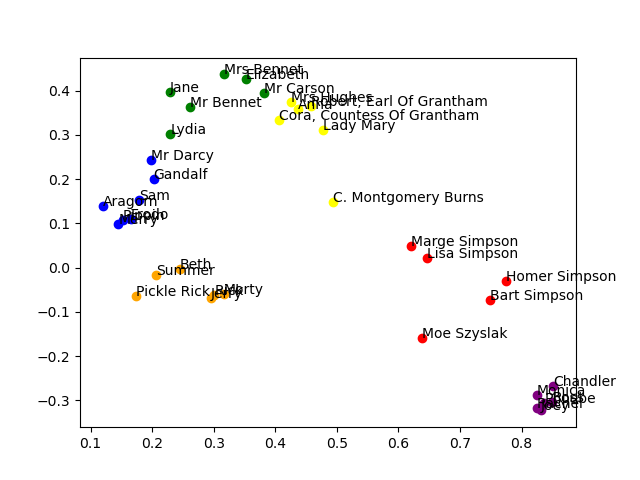
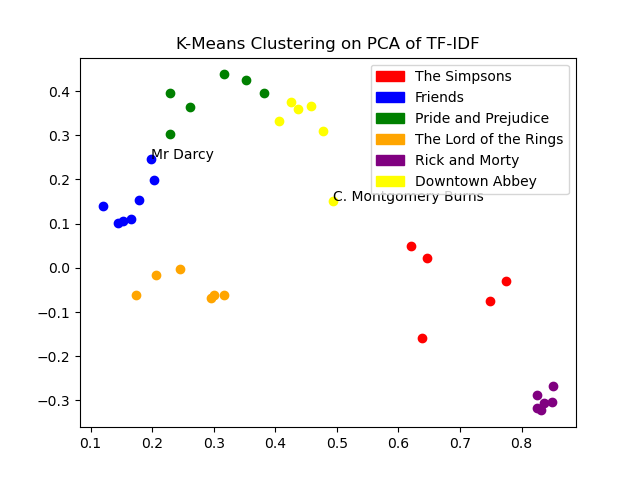
Updated K-Means PCA

diff --git a/code/k_means_across_media.py b/code/k_means_across_media.py
@@ -57,10 +57,20 @@ def plot_data(matrix, speakers, media, response_type):
     elif response_type == 'predicted':
         #create a dictionary of colors for each media
         labels = {0: 'red', 1: 'blue', 2: 'green', 3: 'orange', 4: 'purple', 5: 'yellow'}
+        #create a dictionary of media for each color
+        media_labels = {'red': 'The Simpsons', 'blue': 'Friends', 'green': 'Pride and Prejudice', 'orange': 'The Lord of the Rings', 'purple': 'Rick and Morty', 'yellow': 'Downtown Abbey'}
 
     for i, txt in enumerate(speakers):
         plt.scatter(matrix[i, 0], matrix[i, 1], color=labels[media[i]])
-        plt.annotate(txt, (matrix[:, 0][i], matrix[:, 1][i]))
+        if txt in ('C. Montgomery Burns', 'Mr Darcy'):
+            plt.annotate(txt, (matrix[:, 0][i], matrix[:, 1][i]))
+
+    patches = [mpatches.Patch(color=color, label=label) for color, label in media_labels.items()]
+    plt.legend(handles=patches)
+
+    #add a title to the plot
+    plt.title('K-Means Clustering on PCA of TF-IDF')
+
     plt.savefig(f'../images/k_means_across_media_{response_type}.png')
     return None
 
@@ -112,13 +122,13 @@ print('plotting data with media labels')
 #plot_data(transformed_data, speaker_df['index'].tolist(), speaker_df['media'].tolist(), 'actual')
 
 print('plotting data with cluster labels')
-#plot_data(transformed_data, speaker_df['index'].tolist(), speaker_df['cluster_label'].tolist(), 'predicted')
+plot_data(transformed_data, speaker_df['index'].tolist(), speaker_df['cluster_label'].tolist(), 'predicted')
 
 print('finding purity score')
-get_purity_score(speaker_df['index'].tolist(), speaker_df['media'].tolist(), speaker_df['cluster_label'].tolist())
+#get_purity_score(speaker_df['index'].tolist(), speaker_df['media'].tolist(), speaker_df['cluster_label'].tolist())
 
 print('plotting final chart with selective annotation')
-plot_data_selective_annotation(speaker_df['index'].tolist(), speaker_df['media'].tolist(), transformed_data)
+#plot_data_selective_annotation(speaker_df['index'].tolist(), speaker_df['media'].tolist(), transformed_data)
 
 end_time = time.time()
 print(f"Runtime of the program is {end_time - start_time}")
